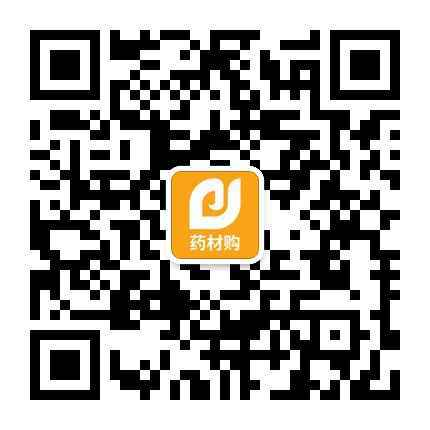
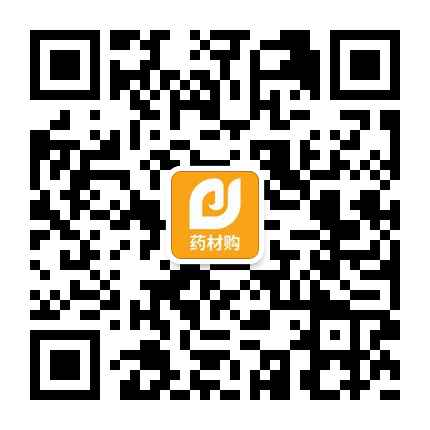
change the kefu qrcode and phone

Changed region(s): [[0.0605, 0.0605, 0.9372, 0.9372]]

diff --git a/res/Btrade-pc/templates/contact.html b/res/Btrade-pc/templates/contact.html
@@ -46,7 +46,7 @@
             <div class="bd">
                 <div class="col1">
                     <h3>采购商、供应商入驻，使用碰到问题</h3>
-                    <p><i class="icons icons-phone"></i>客服热线：<span>133-6567-5569</span></p>
+                    <p><i class="icons icons-phone"></i>客服热线：<span>173-0967-3939</span></p>
                     <p><i class="icons icons-wechat"></i>小采个人微信</p>
                     <div class="qrcode">
                         <img width="114" height="114" src="static/images/xiaocai.jpg" alt="">

diff --git a/res/Btrade-pc/templates/public/footer.html b/res/Btrade-pc/templates/public/footer.html
@@ -11,7 +11,7 @@
         <div class="copy">
             &copy; <a href="/">药材购</a> 即刻采购·供货无忧 www.yaocai.pro
             <span>|</span>
-            任何疑问，请致电客服：133-6567-5569
+            任何疑问，请致电客服：173-0967-3939
         </div>
         <div class="logo-mini">
             <a href="javascript:void(0)"><img src="{{ static_url('images/logo_mini.png')}}" alt=""></a>

diff --git a/res/Btrade-mobile/templates/center.html b/res/Btrade-mobile/templates/center.html
@@ -87,7 +87,7 @@
 
     <div class="yc-contentus">
         <i class="iconfont icon-question"></i>
-        <a href="tel:13365675569">有疑问，直接电话药材购团队</a>
+        <a href="tel:17309673939">有疑问，直接电话药材购团队</a>
     </div>
 </section><!-- /yc-content -->
 {% end %}
